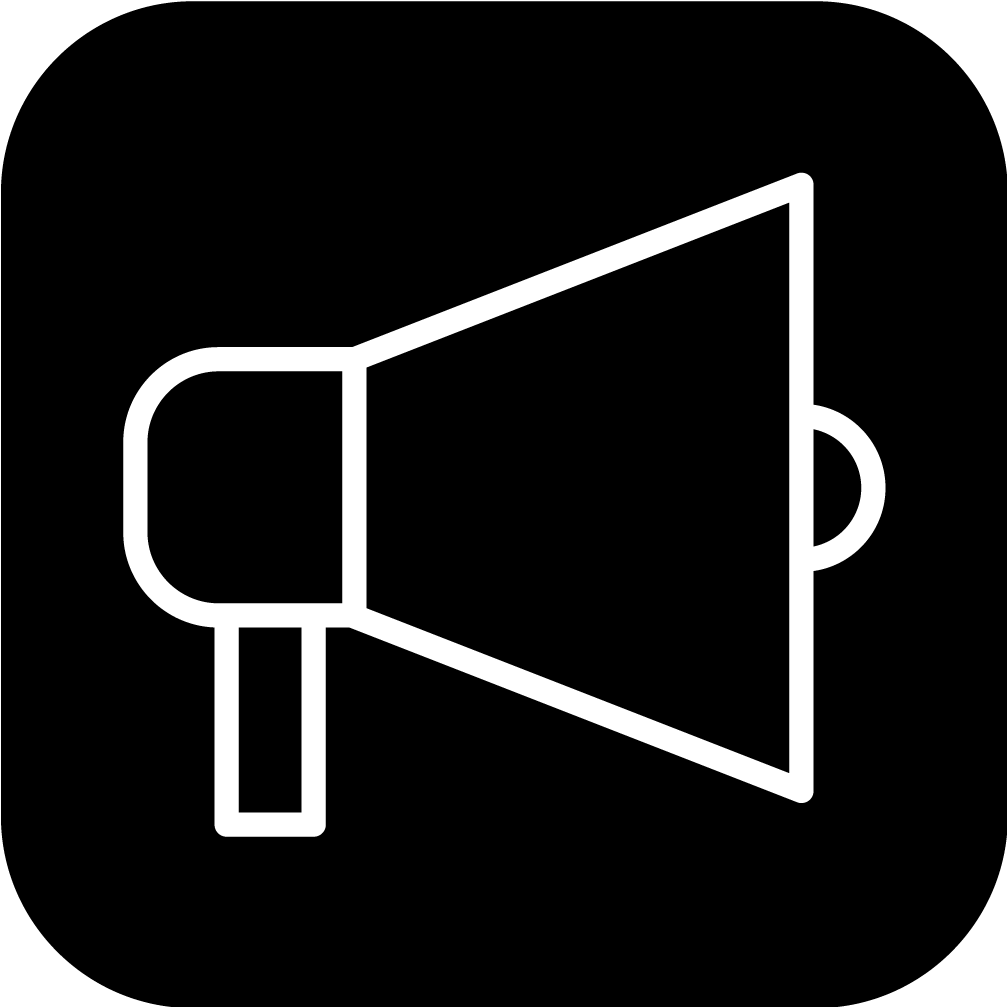
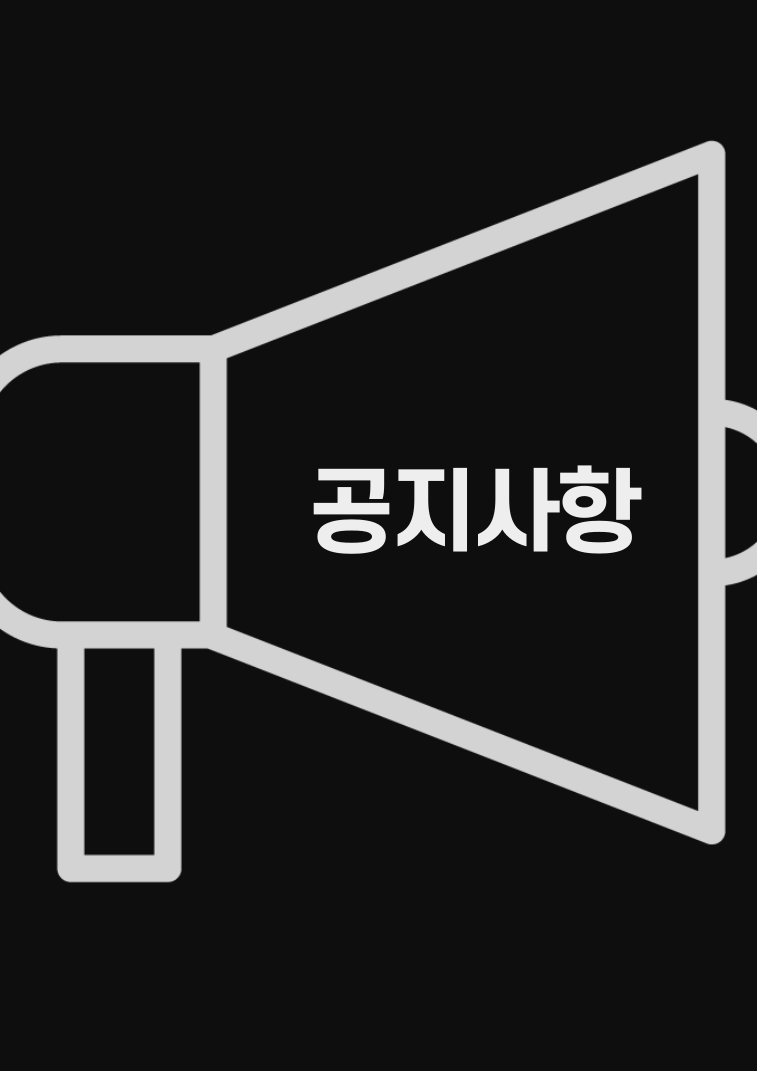
메인 페이지 만드는중

diff --git a/room/src/main/webapp/css/header.css b/room/src/main/webapp/css/header.css
@@ -1,43 +1,55 @@
 @charset "UTF-8";
 /* 시작 */
-
-@font-face {
-    font-family: 'BMJUA';
-    src: url('https://cdn.jsdelivr.net/gh/projectnoonnu/noonfonts_one@1.0/BMJUA.woff') format('woff');
+/* ============= 전체 CSS ================== */
+@font-face {	/* 폰트 ( 눈누 ) */
+    font-family: 'GongGothicMedium';
+    src: url('https://cdn.jsdelivr.net/gh/projectnoonnu/noonfonts_20-10@1.0/GongGothicMedium.woff') format('woff');
     font-weight: normal;
     font-style: normal;
 }
-*{ /* 전체 */
+*{ 				/* 전체 공통 */
 	margin: 0px; padding: 0px; /* 여백의 미 */
 	text-decoration: none;	
 	list-style: none;		/* 글머리 */
-	color: black;			/* 글자색깔맞춤 */
-	font-family: '맑은 고딕';	
+	color: white;			/* 글자색깔맞춤 */
+	font-family: '맑은 고딕';
+	 
 }
 
+/* ============= 전체 CSS END ================== */
+
+/* ============= 상단바 CSS ================== */
+/* ============= 로고 로그인 관련 ============= */
 .webbox{
-	width: 1200px;	
-	margin: 0 auto; /* 가운데 정렬 */
+	width: 1920px;	
+	/*margin: 0 auto; /* 가운데 정렬 */
+	background-color: #111111;
+	height: 80px;
 }
-/*----------상단------------------*/
 
 .hd_top{
 	display: flex;	
-	justify-content: space-between;
-	margin: 10px 0px 20px 0px;	
+	justify-content: space-around;
+	margin: 0px 10px 30px 5px;	
 }
 .hd_sub{
 		display: flex;
 		font-size: 13px;
 		align-items: center;
+		
 	}
 .hd_sub li{ margin-left: 20px; }
-.hd_title a{ font-family: "BMJUA"; font-size: 40px;}
 
-/*--하단--*/
+.hd_title a{ font-family: "GongGothicMedium"; font-size: 40px;}
+
+/* ============= 상단바 CSS END ================== */
+
+/* ==============index CSS =================== */
 
 .hd_menu{
-	border: 10px solid red;
+	background-color: #141412;
+	width: 1920px;
+	height: 800px;
 }
 
 .hd_menu li{
@@ -54,4 +66,11 @@
     left: 30px;
 }
 
-
+.img1{	/* 문의사항 */
+	width: 230%;
+	height: 300%;
+	position: relative;
+  	top: 400%;
+  	left: 400%;
+  	
+}

diff --git a/room/src/main/webapp/css/index.css b/room/src/main/webapp/css/index.css
@@ -1,0 +1,26 @@
+@charset "UTF-8";
+
+
+*{
+	
+}
+
+
+
+
+
+
+
+
+
+
+
+
+
+
+
+
+
+
+
+
